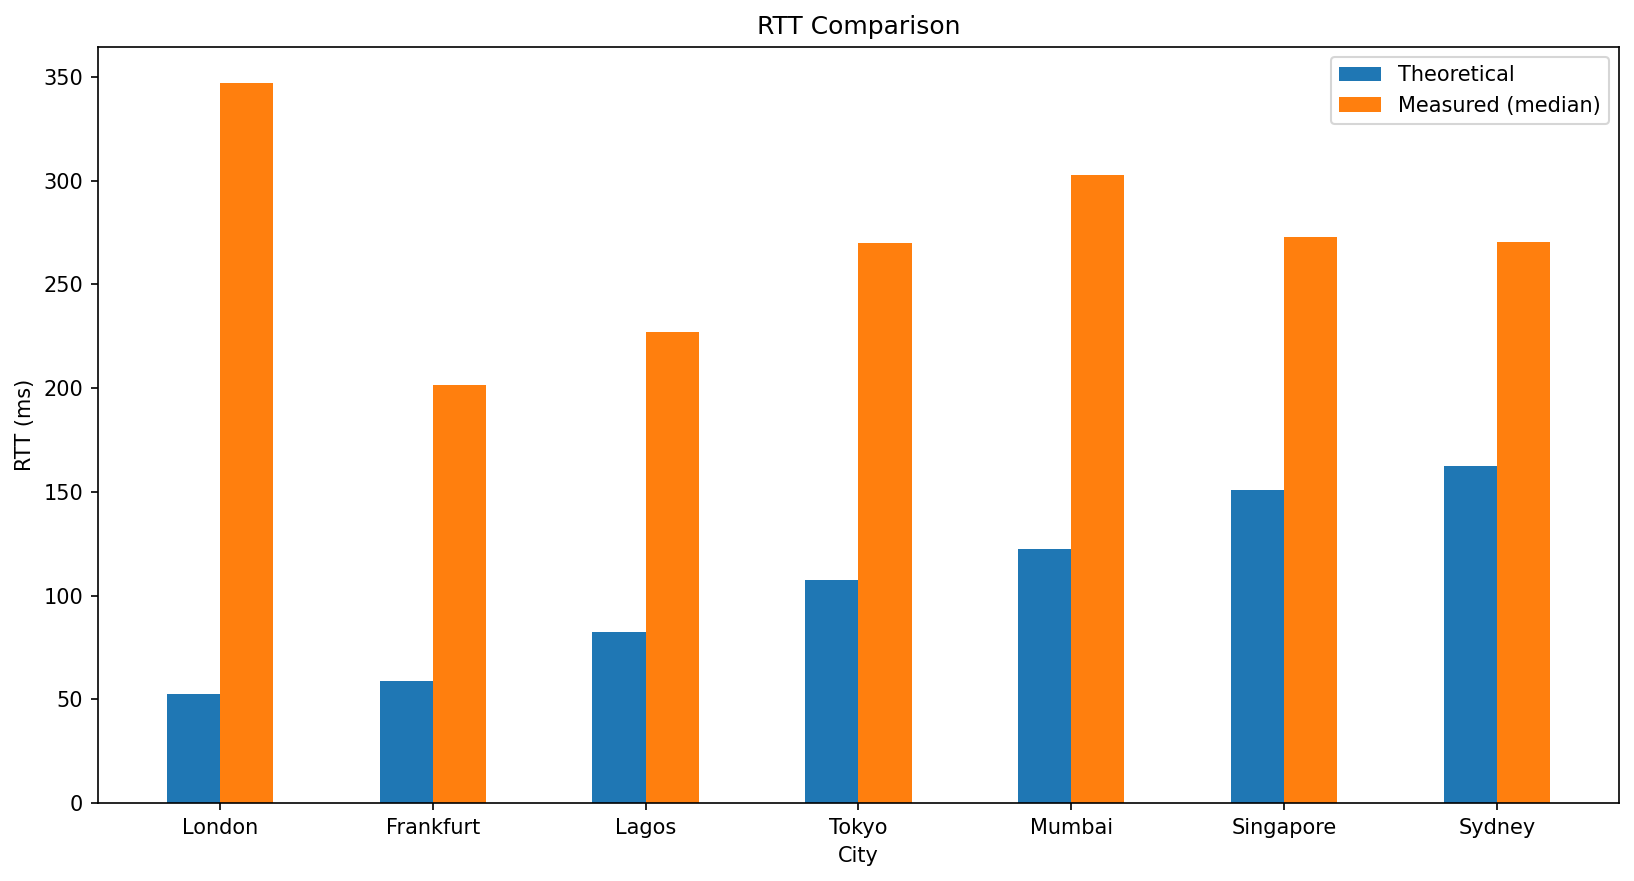
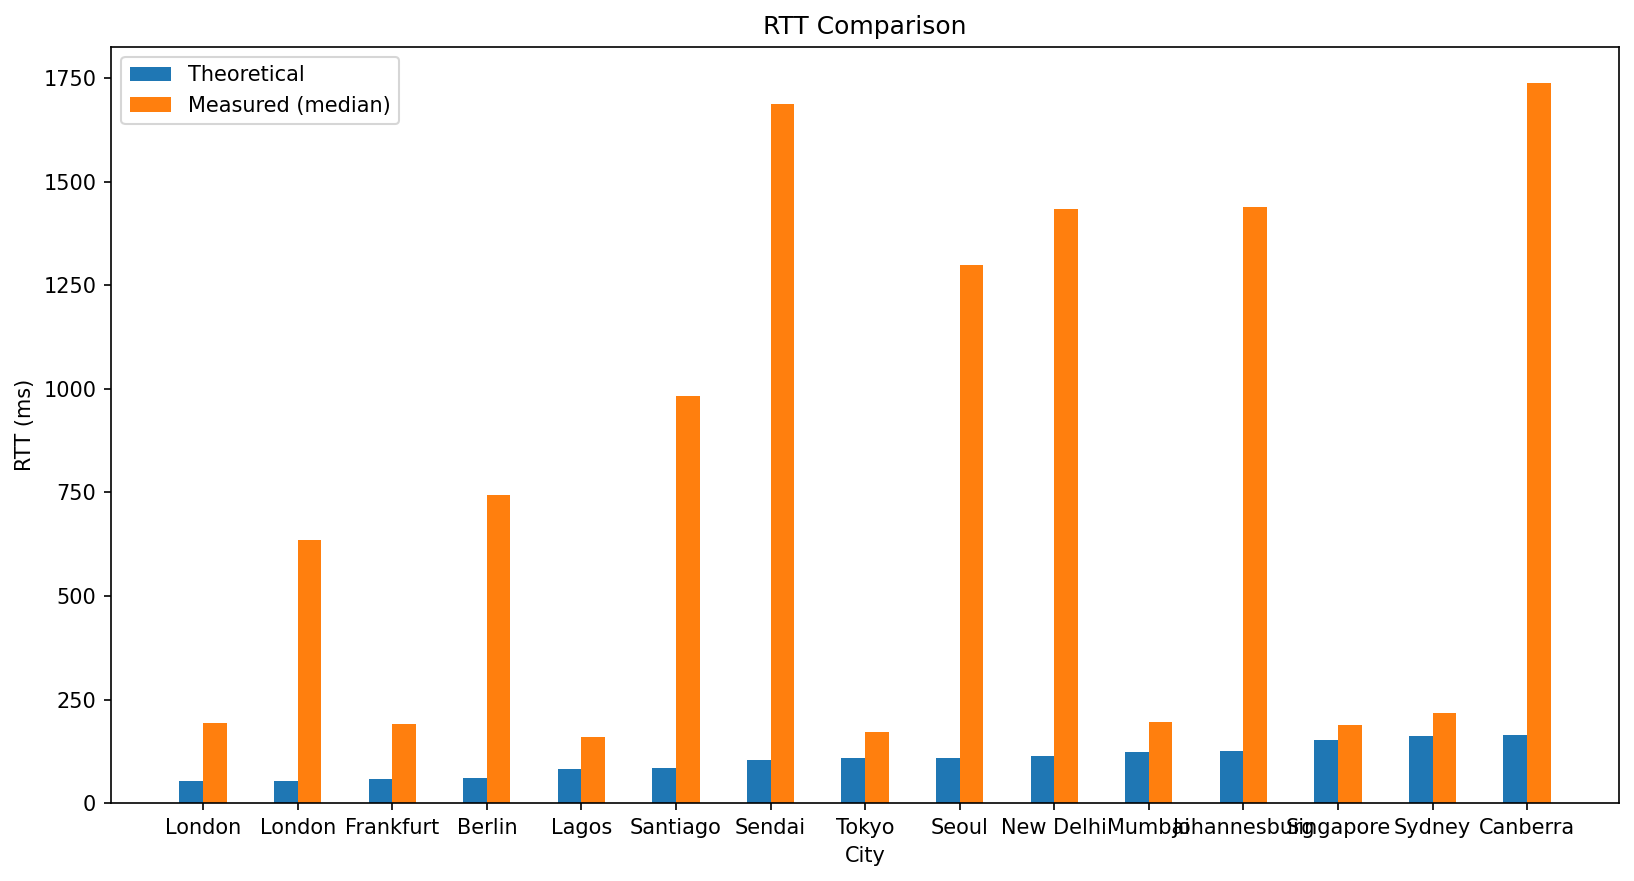
rolled in new targets, and associated refactoring required to accomodate non-unique keying

diff --git a/rtt_speedoflight.py b/rtt_speedoflight.py
@@ -32,6 +32,17 @@ TARGETS: dict[str, dict[str, Any]] = {
     "Singapore":    {"url": "http://www.google.com.sg",  "coords": (1.3521,   103.8198), "continent": "Asia"},
 }
 
+TARGETS2: dict[str, dict[str, Any]] = {
+    "Sendai":       {"url": "http://www.tohoku.ac.jp",  "coords": (38.2682,   140.8694), "continent": "Asia"},
+    "Seoul":        {"url": "http://www.snu.ac.kr",     "coords": (37.5503,   126.9971), "continent": "Asia"},
+    "New Delhi":    {"url": "http://www.iitd.ac.in",    "coords": (28.6139,    77.2088), "continent": "Asia"},
+    "Santiago":     {"url": "http://www.uchile.cl",     "coords": (-33.4489,  -70.6693), "continent": "S. America"},
+    "Johannesburg": {"url": "http://www.wits.ac.za",    "coords": (-26.2056,   28.0337), "continent": "Africa"},
+    "Berlin":       {"url": "http://www.fu-berlin.de",  "coords": (52.5200,    13.4050), "continent": "Europe"},
+    "London":       {"url": "http://www.imperial.ac.uk","coords": (51.5074,    -0.1278), "continent": "Europe"},
+    "Canberra":     {"url": "http://www.anu.edu.au",    "coords": (-35.2802,  149.1310), "continent": "Oceania"},
+}
+
 PROBES           = 15
 FIBER_SPEED_KM_S = 200_000
 FIGURES_DIR      = "figures"
@@ -98,7 +109,7 @@ def measure_rtt(url: str, probes: int = PROBES) -> dict[str, Any]:
     return {
         "min_ms": min(samples), 
         "mean_ms": sum(samples) / len(samples), 
-        "median_ms": max(samples),
+        "median_ms": np.median(samples),
         "loss_pct": float(lost) / float(probes) * 100.0, 
         "samples": samples
     }
@@ -180,7 +191,7 @@ def compute_inefficiency(results: dict[str, dict[str, Any]], src_lat: float, src
 # TASK 3 — PLOTS
 # ─────────────────────────────────────────────
 
-def make_plots(results: dict[str, dict[str, Any]]):
+def make_plots(results: tuple[str, dict[str, Any]]):
     """
     Produce two figures saved to FIGURES_DIR/.
 
@@ -205,18 +216,19 @@ def make_plots(results: dict[str, dict[str, Any]]):
         plt.close()
     """
     os.makedirs(FIGURES_DIR, exist_ok=True)
-    valid  = {c: d for c, d in results.items() if d.get("median_ms") is not None}
-    cities = sorted(valid, key=lambda c: valid[c]["distance_km"])
+    valid  = filter(lambda d: d[1].get("median_ms") is not None, results)
+    results_sorted = sorted(valid, key=lambda d: d[1]["distance_km"])
 
     # ── Figure 1 ──────────────────────────────
     fig, ax = plt.subplots(figsize=(11, 6))
     barWidth = 0.25
-    r = np.arange(len(cities))
+    r = np.arange(len(results_sorted))
     r2 = r + barWidth
-    ax.bar(r, [results[city]["theoretical_min_ms"] for city in cities], width=barWidth, label="Theoretical")
-    ax.bar(r2, [results[city]["median_ms"] for city in cities], width=barWidth, label="Measured (median)")
+    ax.bar(r, [result["theoretical_min_ms"] for city, result in results_sorted], width=barWidth, label="Theoretical")
+    ax.bar(r2, [result["median_ms"] for city, result in results_sorted], width=barWidth, label="Measured (median)")
+    ax.set_ylim(0, None)
     ax.set_xticks(r + barWidth/2)
-    ax.set_xticklabels(cities)
+    ax.set_xticklabels([city for city, result in results_sorted])
     ax.set_xlabel("City")
     ax.set_ylabel("RTT (ms)")
     ax.legend()
@@ -227,10 +239,25 @@ def make_plots(results: dict[str, dict[str, Any]]):
 
     # ── Figure 2 ──────────────────────────────
     fig, ax = plt.subplots(figsize=(10, 7))
-    ax.scatter([results[city]["distance_km"] for city in cities], [results[city]["median_ms"] for city in cities])
+    ax.scatter([result["distance_km"] for city, result in results_sorted], [result["median_ms"] for city, result in results_sorted], c=[CONTINENT_COLORS[result["continent"]] for city, result in results_sorted])
+    for city, result in results_sorted:
+        ax.annotate(city, (result["distance_km"]+100, result["median_ms"]+1))
+
+    # section to get the theoretical min
+    distance_km = np.linspace(0, max([result["distance_km"] for city, result in results_sorted])+1000, 1000)
+    theoretical_min_ms = 2 * (distance_km / FIBER_SPEED_KM_S) * 1000
+    ax.plot(distance_km, theoretical_min_ms, linestyle="dashed")
+
     ax.set_xlabel("Distance (km)")
     ax.set_ylabel("RTT (ms)")
     ax.set_title("RTT vs. Distance")
+    ax.set_xlim(0, max([result["distance_km"] for city, result in results_sorted])+1000)
+    ax.set_ylim(0, None)
+    ax.grid(True)
+
+    patches = [mpatches.Patch(color=color, label=continent) for continent, color in CONTINENT_COLORS.items()] 
+    ax.legend(handles=patches)
+
     plt.tight_layout()
     plt.savefig(f"{FIGURES_DIR}/fig2_distance_scatter.png", dpi=150, bbox_inches="tight")
     plt.close()
@@ -253,12 +280,23 @@ def main():
         results[city] = {**stats, "coords": info["coords"], "continent": info["continent"]}
         med = stats.get("median_ms")
         print(f"median={med:.1f} ms  loss={stats['loss_pct']:.0f}%" if med else "unreachable")
+    
+    results_2 = {}
+    for city, info in TARGETS2.items():
+        print(f"Probing {city} ({info['url']}) ...", end=" ", flush=True)
+        stats = measure_rtt(info["url"])
+        results_2[city] = {**stats, "coords": info["coords"], "continent": info["continent"]}
+        med = stats.get("median_ms")
+        print(f"median={med:.1f} ms  loss={stats['loss_pct']:.0f}%" if med else "unreachable")
 
     results = compute_inefficiency(results, src_lat, src_lon)
+    results_2 = compute_inefficiency(results_2, src_lat, src_lon)
+
+    results_consolidated = list(results.items()) + list(results_2.items())
 
     print(f"\n{'City':<14} {'Dist km':>8} {'Median ms':>10} {'Theor. ms':>10} {'Ratio':>7}")
     print("─" * 55)
-    for city, d in sorted(results.items(), key=lambda x: x[1].get("distance_km", 0)):
+    for city, d in sorted(results_consolidated, key=lambda x: x[1].get("distance_km", 0)):
         dist  = d.get("distance_km", 0)
         med   = d.get("median_ms")
         theor = d.get("theoretical_min_ms")
@@ -269,7 +307,7 @@ def main():
               f"{(f'{theor:.1f}' if theor else 'N/A'):>10} "
               f"{(f'{ratio:.2f}' if ratio else 'N/A'):>7}{flag}")
 
-    make_plots(results)
+    make_plots(results_consolidated)
 
 if __name__ == "__main__":
     main()
